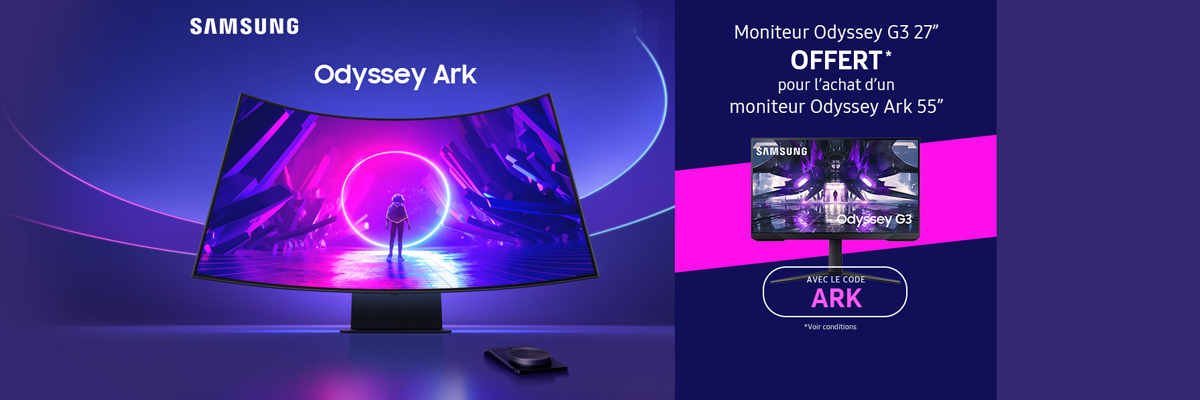
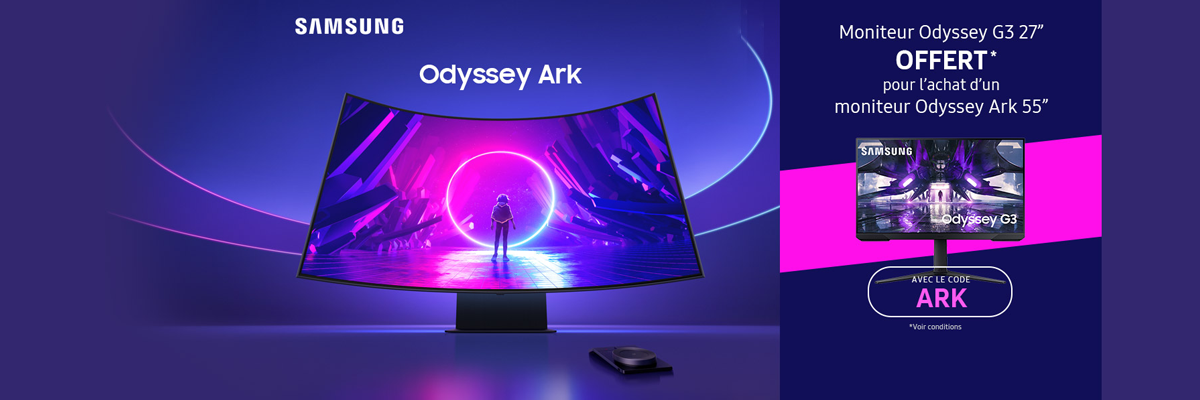
build

diff --git a/APP-React/src/styles/components/_carousel.scss b/APP-React/src/styles/components/_carousel.scss
@@ -2,6 +2,13 @@
   background-position: top center;
   transition: 0.8s ease;
 }
+.swiper#myCarousel {
+  position:initial !important;
+}
+
+.pad400 {
+  padding-top:400px;
+}
 
 .slide1 {
   background-image: url("../../../public/img/carousel/slider1.png");
@@ -17,4 +24,49 @@
   background-image: url("../../../public/img/carousel/slider3.png");
   background-position: top center;
   background-repeat: no-repeat;
+}
+
+@media screen and (max-width: 992px) {
+  .pad400 {
+    padding-top: 300px;
+  }
+  .slide1 {
+    background-image: url("../../../public/img/carousel/slider1-990.png");
+  }
+  .slide2 {
+    background-image: url("../../../public/img/carousel/slider2-990.png");
+  }
+  .slide3 {
+    background-image: url("../../../public/img/carousel/slider3-990.png");
+  }
+}
+@media screen and (max-width: 768px) {
+  .pad400 {
+    padding-top: 200px;
+  }
+
+  .slide1 {
+    background-image: url("../../../public/img/carousel/slider1-768.png");
+  }
+  .slide2 {
+    background-image: url("../../../public/img/carousel/slider2-768.png");
+  }
+  .slide3 {
+    background-image: url("../../../public/img/carousel/slider3-768.png");
+  }
+}
+@media screen and (max-width: 500px) {
+  .pad400 {
+    padding-top: 160px;
+  }
+
+  .slide1 {
+    background-image: url("../../../public/img/carousel/slider1-500.png");
+  }
+  .slide2 {
+    background-image: url("../../../public/img/carousel/slider2-500.png");
+  }
+  .slide3 {
+    background-image: url("../../../public/img/carousel/slider3-500.png");
+  }
 }

diff --git a/APP-React/src/components/animations/Carousel.jsx b/APP-React/src/components/animations/Carousel.jsx
@@ -4,9 +4,8 @@ import { Swiper, SwiperSlide } from "swiper/react";
 import "swiper/css";
 import "swiper/css/pagination";
 import 'swiper/css/autoplay';
-import "swiper/css/effect-fade";
 
-import { Autoplay, EffectFade } from "swiper";
+import { Autoplay } from "swiper";
 
 export default function CarouselPrincipal() {
 
@@ -48,11 +47,9 @@ export default function CarouselPrincipal() {
 
     return (
         <Swiper
-            pagination={true}
-            modules={[EffectFade, Autoplay]}
+            modules={[Autoplay]}
             id="myCarousel"
             onSlideChange={(e) => handleChange(e)}
-            effect={"fade"}
             autoplay={{
                 delay: 7000,
                 disableOnInteraction: false,

diff --git a/APP-React/src/styles/pages/_home.scss b/APP-React/src/styles/pages/_home.scss
@@ -1,0 +1,13 @@
+.section {
+ text-align: center;
+    padding:1rem;
+}
+
+.section h2 {
+    color: $color-black;
+    font-family: $font-title;
+    letter-spacing: 0.3rem;
+    margin: 1rem;
+    font-weight: 600;
+    text-shadow: 2px 2px 5px rgba(150, 150, 150, 1);
+}

diff --git a/APP-React/src/styles/index.scss b/APP-React/src/styles/index.scss
@@ -3,7 +3,6 @@
 @import "./components/navbar";
 @import "./components/footer";
 @import "./components/carousel";
-@import "./components/home";
 @import "./components/swiper";
 @import "./components/brands";
 @import "./components/category";
